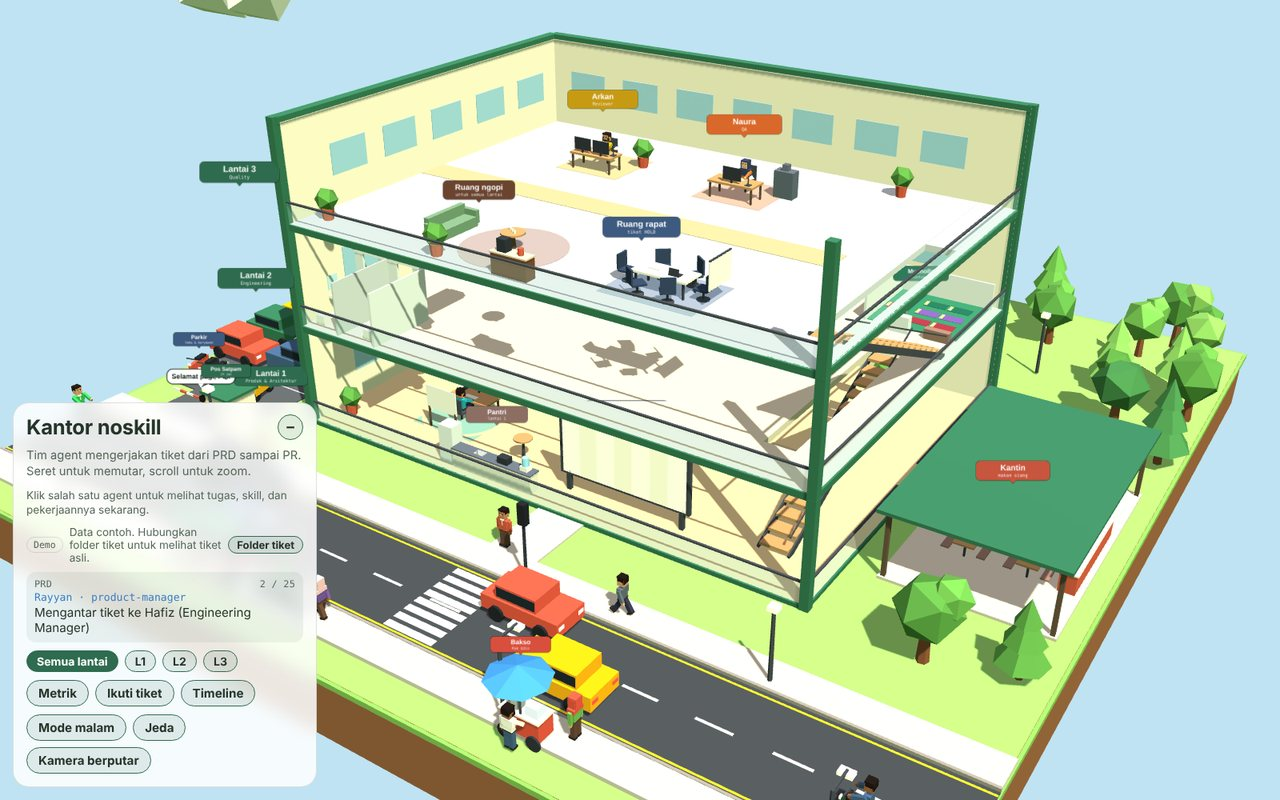
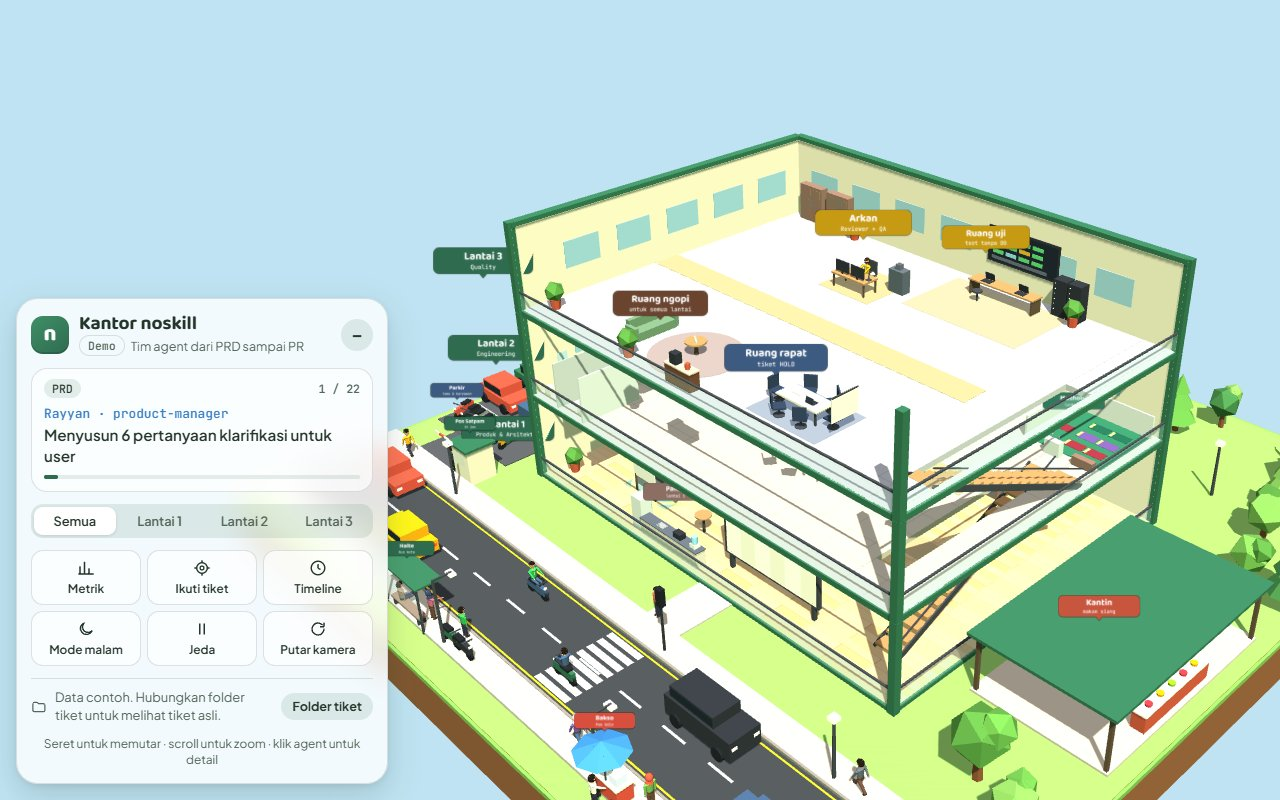
docs: perbarui screenshot kantor (karakter, panel, lantai 1, malam)

diff --git a/docs/index.html b/docs/index.html
@@ -248,10 +248,10 @@ claude --plugin-dir ./noskill</pre><button type="button" data-copy>Salin</button
       <h2 id="kantor">Kantor noskill</h2>
       <p><code>/noskill:kantor</code> membuka kantor 3D tempat agent noskill bekerja. Board tiket dibaca live dari <code>docs/noskill</code>, agent berjalan mengantar tiket ke agent berikutnya, dan agent yang menganggur ngopi, makan di kantin, atau mampir ngobrol. Detailnya ada di <a href="skills.html#kantor">halaman skill</a>.</p>
       <div class="shots">
-        <figure><img src="img/kantor-overview.jpg" alt="Kantor noskill: kantor tiga lantai dengan board tiket, ruang ngopi, ruang rapat, kantin, jalan raya, dan parkiran" width="1280" height="800" loading="lazy"><figcaption>Kantor tiga lantai dengan board tiket, fasilitas kantor, jalan raya, dan parkiran.</figcaption></figure>
+        <figure><img src="img/kantor-overview.jpg" alt="Kantor noskill: kantor tiga lantai dengan panel baru, ruang uji, ruang ngopi, ruang rapat, kantin, jalan raya, dan parkiran" width="1280" height="800" loading="lazy"><figcaption>Kantor tiga lantai dengan board tiket, fasilitas kantor, jalan raya, dan parkiran.</figcaption></figure>
         <div class="row">
-          <figure><img src="img/kantor-agent.jpg" alt="Kartu agent Arkan (Reviewer + QA) dengan deskripsi, skill, tools, dan verdict" width="730" height="846" loading="lazy"><figcaption>Klik agent untuk melihat tugas, skill, dan tiketnya.</figcaption></figure>
-          <figure><img src="img/kantor-jalan.jpg" alt="Mobil dan motor melintas, penumpang menunggu di halte, agent bekerja di lantai 1" width="1280" height="800" loading="lazy"><figcaption>Jalan raya, halte, ojek, dan warga sekitar.</figcaption></figure>
+          <figure><img src="img/kantor-agent.jpg" alt="Kartu agent Arkan (Reviewer + QA) dengan avatar, deskripsi, skill, tools, dan verdict" width="1280" height="800" loading="lazy"><figcaption>Klik agent untuk melihat tugas, skill, dan tiketnya.</figcaption></figure>
+          <figure><img src="img/kantor-jalan.jpg" alt="Lantai 1 berlantai parket: agent bekerja di meja, mobil dan motor melintas di jalan" width="1280" height="800" loading="lazy"><figcaption>Jalan raya, halte, ojek, dan warga sekitar.</figcaption></figure>
           <figure><img src="img/kantor-malam.jpg" alt="Kantor saat malam dengan lampu meja dan lampu jalan menyala" width="1280" height="800" loading="lazy"><figcaption>Mode malam: lampu meja dan lampu jalan menyala.</figcaption></figure>
         </div>
       </div>

diff --git a/docs/skills.html b/docs/skills.html
@@ -154,10 +154,10 @@ html { scroll-behavior: smooth; }
       <h3><code>kantor</code><span class="tag">/noskill:kantor</span></h3>
       <p class="sum">Kantor noskill: diorama 3D kantor tiga lantai tempat agent noskill duduk di mejanya dan berjalan mengantar tiket ke agent berikutnya.</p>
       <div class="shots">
-      <figure><img src="img/kantor-overview.jpg" alt="Kantor noskill: kantor tiga lantai dengan board tiket, ruang ngopi, ruang rapat, kantin, jalan raya, dan parkiran" width="1280" height="800" loading="lazy"><figcaption>Kantor tiga lantai dengan board tiket, fasilitas kantor, jalan raya, dan parkiran.</figcaption></figure>
+      <figure><img src="img/kantor-overview.jpg" alt="Kantor noskill: kantor tiga lantai dengan panel baru, ruang uji, ruang ngopi, ruang rapat, kantin, jalan raya, dan parkiran" width="1280" height="800" loading="lazy"><figcaption>Kantor tiga lantai dengan board tiket, fasilitas kantor, jalan raya, dan parkiran.</figcaption></figure>
       <div class="row">
-        <figure><img src="img/kantor-agent.jpg" alt="Kartu agent Arkan (Reviewer + QA) dengan deskripsi, skill, tools, dan verdict" width="730" height="846" loading="lazy"><figcaption>Klik agent untuk melihat tugas, skill, dan tiketnya.</figcaption></figure>
-        <figure><img src="img/kantor-jalan.jpg" alt="Mobil dan motor melintas, penumpang menunggu di halte, agent bekerja di lantai 1" width="1280" height="800" loading="lazy"><figcaption>Jalan raya, halte, ojek, dan warga sekitar.</figcaption></figure>
+        <figure><img src="img/kantor-agent.jpg" alt="Kartu agent Arkan (Reviewer + QA) dengan avatar, deskripsi, skill, tools, dan verdict" width="1280" height="800" loading="lazy"><figcaption>Klik agent untuk melihat tugas, skill, dan tiketnya.</figcaption></figure>
+        <figure><img src="img/kantor-jalan.jpg" alt="Lantai 1 berlantai parket: agent bekerja di meja, mobil dan motor melintas di jalan" width="1280" height="800" loading="lazy"><figcaption>Jalan raya, halte, ojek, dan warga sekitar.</figcaption></figure>
         <figure><img src="img/kantor-malam.jpg" alt="Kantor saat malam dengan lampu meja dan lampu jalan menyala" width="1280" height="800" loading="lazy"><figcaption>Mode malam: lampu meja dan lampu jalan menyala.</figcaption></figure>
       </div>
       </div>

diff --git a/skills/kantor/kantor-noskill.html b/skills/kantor/kantor-noskill.html
@@ -152,6 +152,7 @@
   button:active { transform: scale(0.97); }
   button.ghost, .panel .min, .info .close, .tl-head .close { background: var(--btn-soft); color: var(--ink); border-color: transparent; }
   button:focus-visible { outline: 3px solid var(--btn); outline-offset: 2px; }
+  @media (prefers-reduced-motion: reduce) { *, *::before, *::after { transition: none !important; } }
   @media (hover: hover) {
     .tool:hover, .seg button:hover, button.ghost:hover { background: var(--btn-soft); }
     .tool[aria-pressed="true"]:hover, .tool[aria-expanded="true"]:hover { background: var(--btn); }

diff --git a/README.md b/README.md
@@ -19,11 +19,11 @@ Koleksi Claude Skills & Agent untuk kerja development sehari-hari — dipaketkan
 
 `/noskill:kantor` membuka kantor 3D tempat agent noskill bekerja: tiga lantai, board tiket live dari `docs/noskill`, agent yang berjalan mengantar tiket, dan suasana kantor di sekitarnya.
 
-![Kantor noskill: kantor tiga lantai dengan board tiket, ruang ngopi, ruang rapat, kantin, jalan raya, dan parkiran](docs/img/kantor-overview.jpg)
+![Kantor noskill: kantor tiga lantai dengan panel baru, ruang uji, ruang ngopi, ruang rapat, kantin, jalan raya, dan parkiran](docs/img/kantor-overview.jpg)
 
 | Klik agent untuk melihat tugas dan skill | Jalan raya, halte, dan warga sekitar | Mode malam |
 |---|---|---|
-| ![Kartu agent Arkan (Reviewer + QA) dengan deskripsi, skill, tools, dan verdict](docs/img/kantor-agent.jpg) | ![Mobil dan motor melintas, penumpang menunggu di halte, agent bekerja di lantai 1](docs/img/kantor-jalan.jpg) | ![Kantor saat malam dengan lampu meja dan lampu jalan menyala](docs/img/kantor-malam.jpg) |
+| ![Kartu agent Arkan (Reviewer + QA) dengan avatar, deskripsi, skill, tools, dan verdict](docs/img/kantor-agent.jpg) | ![Lantai 1 berlantai parket: agent bekerja di meja, mobil dan motor melintas di jalan](docs/img/kantor-jalan.jpg) | ![Kantor saat malam dengan lampu meja dan lampu jalan menyala](docs/img/kantor-malam.jpg) |
 
 ## Skills
 
